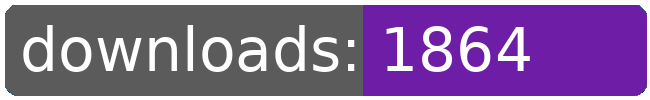
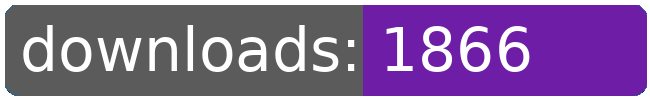
dl log written

Changed region(s): [[0.7692, 0.24, 0.8308, 0.72]]

diff --git a/README.md b/README.md
@@ -186,8 +186,8 @@
 		<td>1797</td>
 		<td>1822</td>
 		<td>1850</td>
-		<td>1864</td>
-		<td>+ 14</td>
+		<td>1866</td>
+		<td>+ 16</td>
 	</tr>
 	<tr>
 		<td>reduce.requiredcrew</td>
@@ -252,8 +252,8 @@
 		<td></td>
 		<td></td>
 		<td></td>
-		<td>30434</td>
-		<td>282</td>
+		<td>30436</td>
+		<td>284</td>
 	</tr>
 </table>
 </sub></sup>
@@ -366,8 +366,8 @@
 		<td>1797</td>
 		<td>1822</td>
 		<td>1850</td>
-		<td>1864</td>
-		<td>+ 14</td>
+		<td>1866</td>
+		<td>+ 16</td>
 	</tr>
 	<tr>
 		<td>unlimited.dfc</td>
@@ -509,8 +509,8 @@
 		<td></td>
 		<td></td>
 		<td></td>
-		<td>30434</td>
-		<td>282</td>
+		<td>30436</td>
+		<td>284</td>
 	</tr>
 </table>
 </sub></sup>
